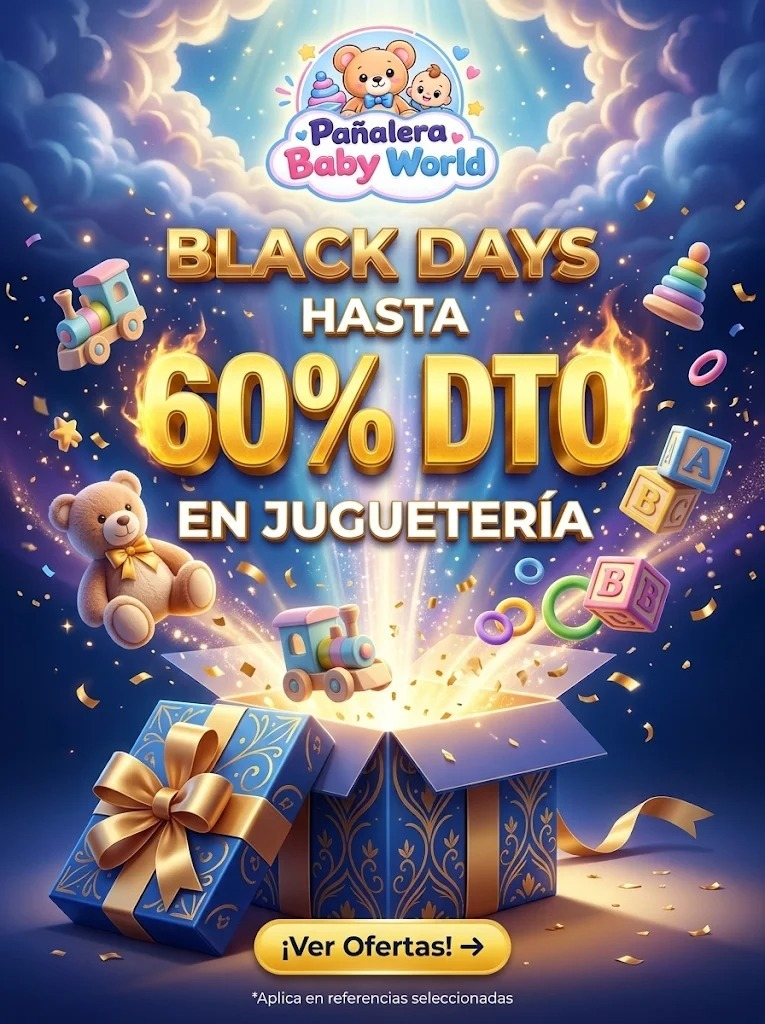
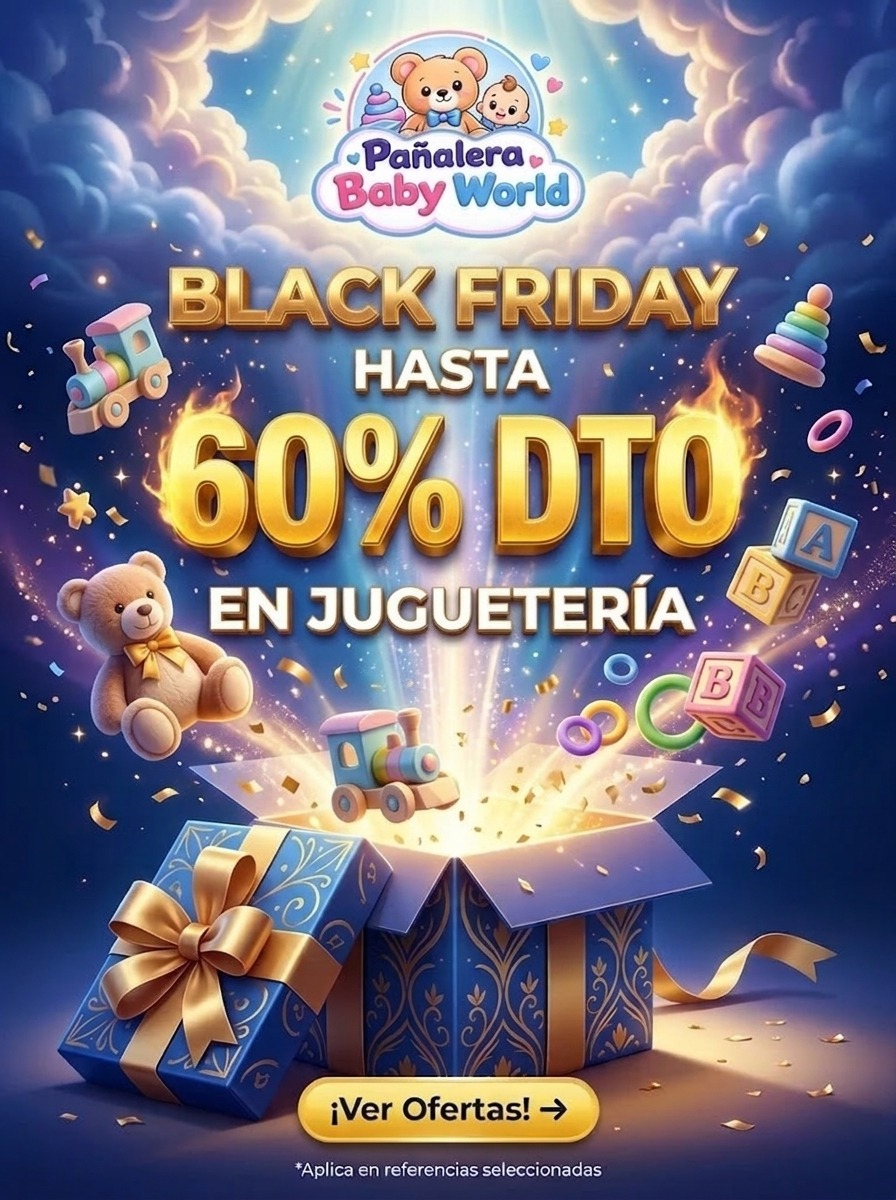
feat(babyworld): actualizar piezas graficas publicitarias de Black Days a Black Friday

diff --git a/tiendas-virtuales/distribuidorababyworld/src/components/HeroBanner.tsx b/tiendas-virtuales/distribuidorababyworld/src/components/HeroBanner.tsx
@@ -28,8 +28,8 @@ export function HeroBanner({ onOpenFamiliaRegistro, onOpenLocation, onOpenBnplIn
 
   const slides: Slide[] = [
     {
-      id: 'black-days',
-      src: '/banner-black-days.jpg?v=5',
+      id: 'black-friday',
+      src: '/banner-black-friday.jpg?v=6',
       alt: 'Black Friday en Baby World: ¡Hasta 60% de descuento en Juguetería! Aplica en referencias seleccionadas.',
       ariaLabel: 'Black Friday Baby World: Hasta 60% de descuento en juguetería. Aplica en referencias seleccionadas.',
       mobileText: '🔥 Black Friday: Hasta 60% OFF en Juguetes',

diff --git a/tiendas-virtuales/distribuidorababyworld/src/components/PromoAnnouncementModal.tsx b/tiendas-virtuales/distribuidorababyworld/src/components/PromoAnnouncementModal.tsx
@@ -12,7 +12,7 @@ export function PromoAnnouncementModal({
   isOpen,
   onClose,
   onAction,
-  imageUrl = '/anuncio-black-days.jpg'
+  imageUrl = '/anuncio-black-friday.jpg?v=6'
 }: PromoAnnouncementModalProps) {
   // Manejo de tecla Escape para cerrar
   useEffect(() => {
